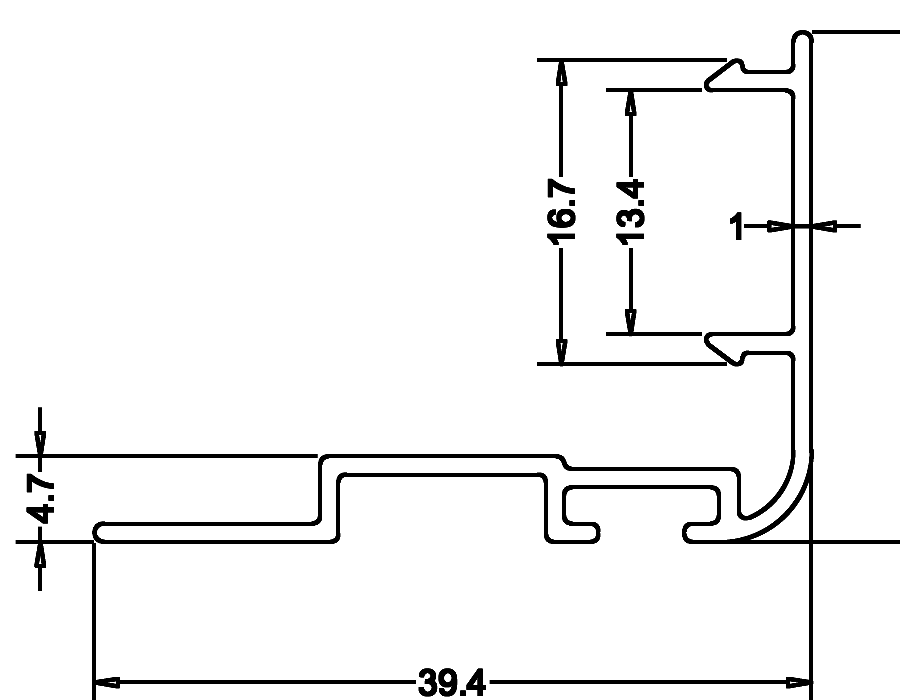
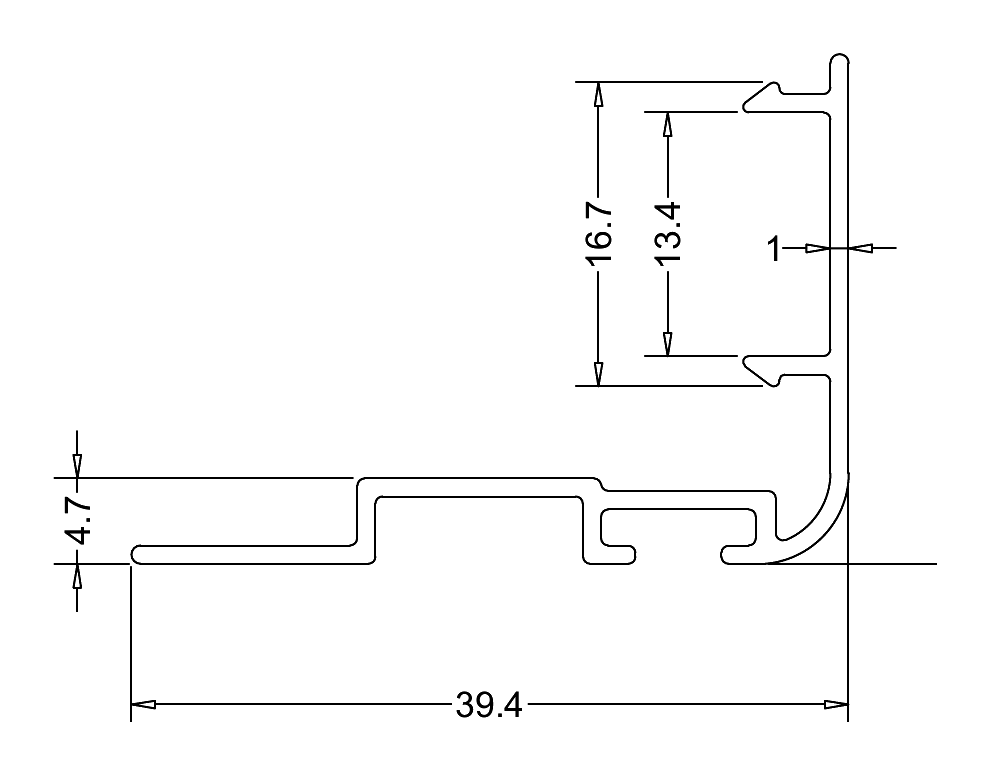
Lighter section drawings, no cut-off fragments, true center rail
- Drawings are redrawn from the catalogue originals at their own line
  weight (no thickening), black on white; the SP/DP pipe body is a light
  grey fill instead of a black block.
- Fragments the catalogue crop had cut through — half letters, line stubs
  on the edge — are removed; long dimension lines and the section itself
  are kept. Every drawing gets an even white margin so nothing sits on
  the edge of its box.
- The 63 and 50 door center rails were drawn as a plain box. They now
  show the center rail's catalogue drawing: the tube with the moulding on
  both sides (the shutter has it on one).

Claude-Session: https://claude.ai/code/session_011PUPxMAAzzLueH72U7EBRP

Changed region(s): [[0.0311, 0.03, 1.0, 1.0]]

diff --git a/components/section-profiles.tsx b/components/section-profiles.tsx
@@ -262,8 +262,18 @@ const SECTION_IMAGES = new Set<string>([
   "door_palla_75", "door_palla_60", "door_palla_50", "door_center_75", "door_frame_pattam",
 ]);
 
+/** Sections drawn by another one's catalogue picture: every door center rail
+ *  is the same profile — a tube with the moulding on BOTH sides (the shutter
+ *  has it on one) — so the 63 and 50 show the 75's drawing, not a plain box. */
+const IMAGE_OF: Record<string, string> = { door_center_60: "door_center_75", door_center_50: "door_center_75" };
+
 export function hasImage(sectionId: string): boolean {
-  return SECTION_IMAGES.has(sectionId);
+  return SECTION_IMAGES.has(IMAGE_OF[sectionId] ?? sectionId);
+}
+
+/** The picture file for a section. */
+export function imageSrc(sectionId: string): string {
+  return `/sections/${IMAGE_OF[sectionId] ?? sectionId}.png`;
 }
 
 /* ————————————————— compact profile (table cells) ————————————————— */
@@ -275,7 +285,7 @@ export function SectionProfile({ sectionId, w = 46, h = 30 }: { sectionId: strin
       <span className="grid place-items-center overflow-hidden rounded-md"
         style={{ width: w + 8, height: h + 6, background: "#fff", border: "1px solid var(--line)" }}>
         {/* eslint-disable-next-line @next/next/no-img-element */}
-        <img src={`/sections/${sectionId}.png`} alt={`${sec.label} cross-section`}
+        <img src={imageSrc(sectionId)} alt={`${sec.label} cross-section`}
           style={{ maxWidth: "100%", maxHeight: "100%", objectFit: "contain", padding: 2 }} />
       </span>
     );
@@ -305,7 +315,7 @@ export function SectionDrawing({ sectionId }: { sectionId: string }) {
       <figure className="overflow-hidden rounded-xl" style={{ background: "#fff", border: "1px solid var(--line)" }}>
         <div className="grid place-items-center px-3 py-3" style={{ background: "#fff" }}>
           {/* eslint-disable-next-line @next/next/no-img-element */}
-          <img src={`/sections/${sectionId}.png`} alt={`${sec.label} — engineering cross-section (mm)`}
+          <img src={imageSrc(sectionId)} alt={`${sec.label} — engineering cross-section (mm)`}
             style={{ maxWidth: "100%", maxHeight: 190, objectFit: "contain" }} />
         </div>
         {/* Wraps instead of squeezing: in a narrow drawing-sheet column the

diff --git a/app/page.tsx b/app/page.tsx
@@ -28,7 +28,7 @@ import type {
   JobItem, MaterialList, OpeningType, PackedBar, CutPiece, ReviewFinding,
 } from "@/lib/engine/types";
 import { CuttingGuide, MiniElevation, PartitionGapPicture, DoorScopePicture } from "@/components/diagrams";
-import { SectionProfile, SectionDrawing, hasImage } from "@/components/section-profiles";
+import { SectionProfile, SectionDrawing, hasImage, imageSrc } from "@/components/section-profiles";
 import { EngineeringSheet } from "@/components/eng-sheet";
 import { SupplierOrderDoc } from "@/components/supplier-doc";
 import { sharePdfToWhatsApp, elementToPdfBlob, whatsAppLink, type ShareResult } from "@/lib/pdf";
@@ -1569,7 +1569,7 @@ function MaterialPanel({ list, shop, items, jobName }: {
               const sec = getSection(s.sectionId);
               const code = sectionCode(s.sectionId, brand);
               return {
-                image: hasImage(s.sectionId) ? `/sections/${s.sectionId}.png` : undefined,
+                image: hasImage(s.sectionId) ? imageSrc(s.sectionId) : undefined,
                 label: sec.label,
                 sub: code ? `#${code}` : (sec.size ? `${sec.size}mm` : undefined),
                 qty: barsText(sec.barLengthFt ?? 16, s.bars16, s.bars8),
